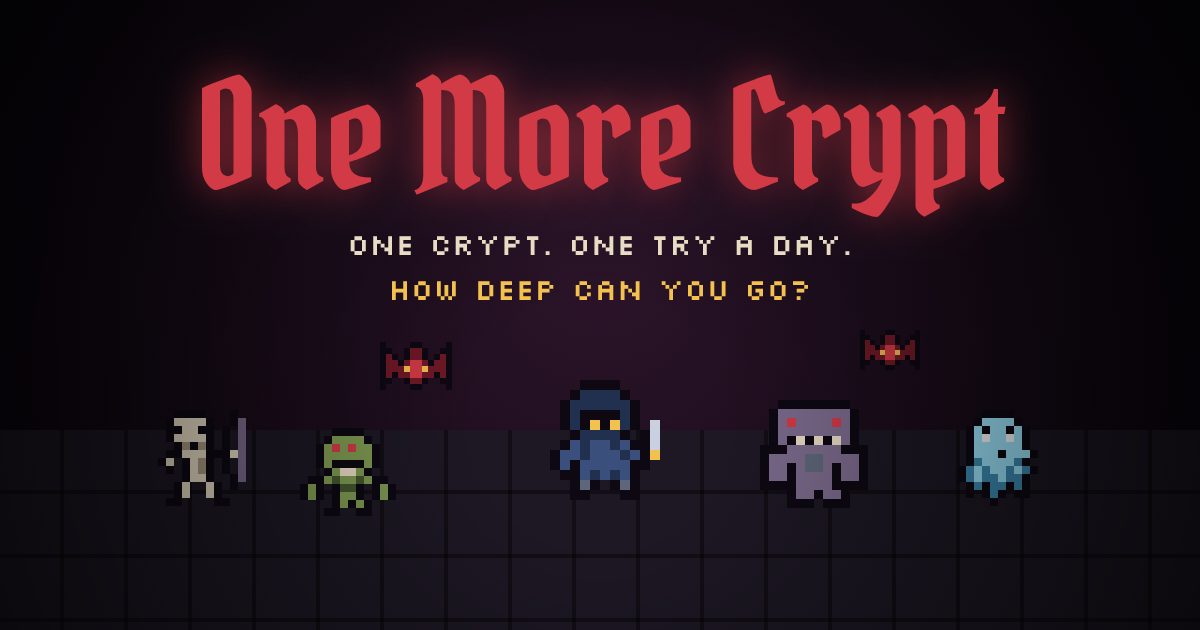
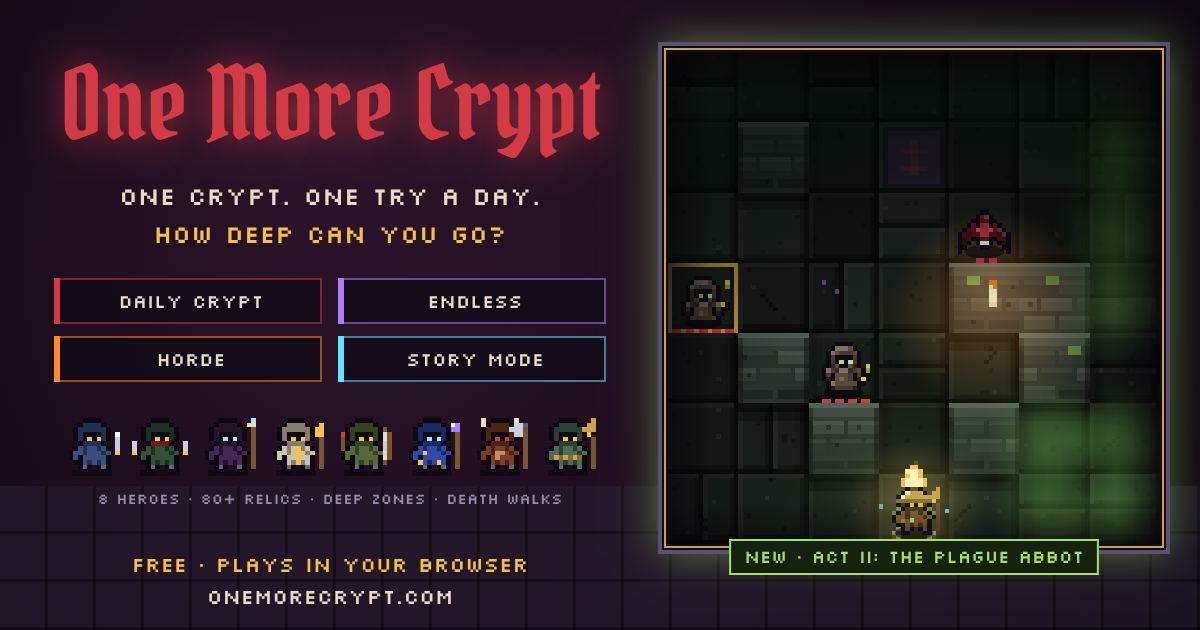
New link preview: a real cloister board, every hero and the modes
The social card (public/og.png) now shows a Sunken Cloister floor drawn
by the game's own renderer, the four modes, all eight heroes and the
Act II tag. The preview text mentions Endless, Horde and the story, and
the image URL carries ?v=2 so Discord and X fetch the new one.

Claude-Session: https://claude.ai/code/session_01EZvy4DRrhZeutdw1H9MYoi

diff --git a/scripts/og.html b/scripts/og.html
@@ -11,58 +11,136 @@
   <body>
     <canvas id="c" width="1200" height="630"></canvas>
     <script type="module">
-      // Social preview card. Regenerate with: node scripts/make-og.mjs
-      import { sprites } from '/src/sprites.ts';
+      // Social preview card: the title, the modes, every hero, and a real board from the
+      // game (a Sunken Cloister floor in the plague mist). Regenerate with: node scripts/make-og.mjs
+      import { HEROES } from '/src/content.ts';
+      import { Game, fullPool } from '/src/game.ts';
+      import { heroSprite } from '/src/hero.ts';
+      import { Renderer } from '/src/render.ts';
       await document.fonts.load('120px "Pirata One"');
       await document.fonts.load('28px Silkscreen');
       const c = document.getElementById('c');
       const ctx = c.getContext('2d');
       ctx.imageSmoothingEnabled = false;
-      const bg = ctx.createRadialGradient(600, 260, 40, 600, 315, 700);
+
+      // background: a deep violet glow, and faint stone along the bottom
+      const bg = ctx.createRadialGradient(330, 220, 40, 520, 315, 900);
       bg.addColorStop(0, '#2a1328');
       bg.addColorStop(1, '#07040b');
       ctx.fillStyle = bg;
       ctx.fillRect(0, 0, 1200, 630);
-
-      // floor tiles across the bottom
-      for (let x = 0; x < 1200; x += 64) {
-        for (let y = 430; y < 630; y += 64) {
-          ctx.fillStyle = (x / 64 + y / 64) % 2 ? '#1d1824' : '#211b29';
-          ctx.fillRect(x, y, 64, 64);
-          ctx.fillStyle = 'rgba(0,0,0,0.4)';
-          ctx.fillRect(x, y + 60, 64, 4);
-          ctx.fillRect(x + 60, y, 4, 64);
+      for (let x = 0; x < 1200; x += 48) {
+        for (let y = 486; y < 630; y += 48) {
+          ctx.fillStyle = (x / 48 + y / 48) % 2 ? 'rgba(40,32,52,0.5)' : 'rgba(33,27,41,0.5)';
+          ctx.fillRect(x, y, 48, 48);
+          ctx.fillStyle = 'rgba(0,0,0,0.35)';
+          ctx.fillRect(x, y + 45, 48, 3);
+          ctx.fillRect(x + 45, y, 3, 48);
         }
       }
-      const s = sprites();
-      const draw = (name, x, y, scale) => ctx.drawImage(s[name].normal, x, y, 12 * scale, 12 * scale);
-      draw('player', 540, 380, 10);
-      draw('ghoul', 300, 420, 8);
-      draw('archer', 150, 410, 8);
-      draw('bat', 380, 330, 6);
-      draw('brute', 760, 400, 9);
-      draw('wraith', 950, 410, 8);
-      draw('bat', 860, 320, 5);
 
-      // torch light vignette
-      const v = ctx.createRadialGradient(600, 420, 120, 600, 380, 750);
-      v.addColorStop(0, 'rgba(0,0,0,0)');
-      v.addColorStop(1, 'rgba(0,0,0,0.75)');
-      ctx.fillStyle = v;
-      ctx.fillRect(0, 0, 1200, 630);
-
-      ctx.textAlign = 'center';
-      ctx.font = '150px "Pirata One"';
-      ctx.shadowColor = 'rgba(210,58,70,0.7)';
+      // a real board, drawn by the game's own renderer
+      const board = document.createElement('canvas');
+      const r = new Renderer(board, true);
+      r.resize(560);
+      r.outfit = { look: 'bellvestment', head: 'bellhelm', aura: 'greatbell' };
+      const g = new Game('story', 20261030, 0, {
+        hero: 'bellringer',
+        pool: fullPool(),
+        mercy: true,
+        story: { start: 7, end: 12, gifts: 4, look: 'cloister', mist: 3, monks: true },
+      });
+      r.setGame(g);
+      r.consume(g.events.splice(0));
+      for (let i = 0; i < 160; i++) r.frame(1 / 60);
+      const B = 492;
+      const bx = 668;
+      const by = 52;
+      ctx.shadowColor = 'rgba(155, 227, 106, 0.45)';
       ctx.shadowBlur = 40;
-      ctx.fillStyle = '#d23a46';
-      ctx.fillText('One More Crypt', 600, 190);
+      ctx.fillStyle = '#100a16';
+      ctx.fillRect(bx - 10, by - 10, B + 20, B + 20);
       ctx.shadowBlur = 0;
-      ctx.font = '30px Silkscreen';
+      ctx.drawImage(board, bx, by, B, B);
+      ctx.strokeStyle = '#5a5070';
+      ctx.lineWidth = 4;
+      ctx.strokeRect(bx - 8, by - 8, B + 16, B + 16);
+      ctx.strokeStyle = '#c9a24a';
+      ctx.lineWidth = 2;
+      ctx.strokeRect(bx - 3, by - 3, B + 6, B + 6);
+      // a tag on the board
+      ctx.font = '18px Silkscreen';
+      ctx.textAlign = 'center';
+      const tag = 'NEW · ACT II: THE PLAGUE ABBOT';
+      const tw = ctx.measureText(tag).width + 28;
+      ctx.fillStyle = '#16210f';
+      ctx.fillRect(bx + B / 2 - tw / 2, by + B - 4, tw, 34);
+      ctx.strokeStyle = '#9be36a';
+      ctx.strokeRect(bx + B / 2 - tw / 2, by + B - 4, tw, 34);
+      ctx.fillStyle = '#9be36a';
+      ctx.fillText(tag, bx + B / 2, by + B + 19);
+
+      // the title
+      const cx = 330;
+      ctx.font = '100px "Pirata One"';
+      ctx.shadowColor = 'rgba(210,58,70,0.75)';
+      ctx.shadowBlur = 36;
+      ctx.fillStyle = '#d23a46';
+      ctx.fillText('One More Crypt', cx, 140);
+      ctx.shadowBlur = 0;
+      ctx.font = '25px Silkscreen';
       ctx.fillStyle = '#e8dcc4';
-      ctx.fillText('ONE CRYPT. ONE TRY A DAY.', 600, 255);
+      ctx.fillText('ONE CRYPT. ONE TRY A DAY.', cx, 205);
       ctx.fillStyle = '#f2c14e';
-      ctx.fillText('HOW DEEP CAN YOU GO?', 600, 300);
+      ctx.fillText('HOW DEEP CAN YOU GO?', cx, 243);
+
+      // the modes, as chips
+      const modes = [
+        ['DAILY CRYPT', '#d23a46'],
+        ['ENDLESS', '#b07cff'],
+        ['HORDE', '#ff8a2a'],
+        ['STORY MODE', '#5fe3ff'],
+      ];
+      ctx.font = '19px Silkscreen';
+      const w = 268;
+      modes.forEach(([name, col], i) => {
+        const x = cx - w - 8 + (i % 2) * (w + 16);
+        const y = 278 + Math.floor(i / 2) * 58;
+        ctx.fillStyle = 'rgba(16, 10, 22, 0.85)';
+        ctx.fillRect(x, y, w, 46);
+        ctx.fillStyle = col;
+        ctx.fillRect(x, y, 6, 46);
+        ctx.strokeStyle = col;
+        ctx.globalAlpha = 0.55;
+        ctx.lineWidth = 2;
+        ctx.strokeRect(x + 1, y + 1, w - 2, 44);
+        ctx.globalAlpha = 1;
+        ctx.fillStyle = '#e8dcc4';
+        ctx.fillText(name, x + w / 2 + 3, y + 30);
+      });
+
+      // every hero, side by side
+      const n = HEROES.length;
+      const size = 56;
+      const gap = 12;
+      const row = n * size + (n - 1) * gap;
+      HEROES.forEach((h, i) => {
+        const x = cx - row / 2 + i * (size + gap);
+        const y = 418;
+        ctx.fillStyle = 'rgba(0,0,0,0.35)';
+        ctx.fillRect(x + 8, y + size - 4, size - 16, 6);
+        ctx.drawImage(heroSprite(h.id, {}, []).normal, x, y, size, size);
+      });
+      ctx.font = '15px Silkscreen';
+      ctx.fillStyle = '#9a8bab';
+      ctx.fillText(`${n} HEROES · 80+ RELICS · DEEP ZONES · DEATH WALKS`, cx, 504);
+
+      // footer
+      ctx.font = '21px Silkscreen';
+      ctx.fillStyle = '#f2c14e';
+      ctx.fillText('FREE · PLAYS IN YOUR BROWSER', cx, 572);
+      ctx.fillStyle = '#e8dcc4';
+      ctx.fillText('ONEMORECRYPT.COM', cx, 604);
       window.ogReady = true;
     </script>
   </body>

diff --git a/index.html b/index.html
@@ -9,13 +9,13 @@
 
     <meta property="og:type" content="website" />
     <meta property="og:title" content="One More Crypt · How deep can you go?" />
-    <meta property="og:description" content="A daily dark-fantasy roguelite. Same crypt for everyone, one attempt a day. Plays in your browser in seconds." />
-    <meta property="og:image" content="__SITE_URL__og.png" />
+    <meta property="og:description" content="A dark-fantasy roguelite: one crypt a day for everyone, plus Endless, Horde and a story campaign. Free, and plays in your browser in seconds." />
+    <meta property="og:image" content="__SITE_URL__og.png?v=2" />
     <meta property="og:url" content="__SITE_URL__" />
     <meta name="twitter:card" content="summary_large_image" />
     <meta name="twitter:title" content="One More Crypt · How deep can you go?" />
-    <meta name="twitter:description" content="A daily dark-fantasy roguelite. Same crypt for everyone, one attempt a day." />
-    <meta name="twitter:image" content="__SITE_URL__og.png" />
+    <meta name="twitter:description" content="A dark-fantasy roguelite: one crypt a day for everyone, plus Endless, Horde and a story campaign. Free in your browser." />
+    <meta name="twitter:image" content="__SITE_URL__og.png?v=2" />
 
     <link rel="icon" type="image/svg+xml" href="./favicon.svg" />
     <link rel="manifest" href="./manifest.webmanifest" />
